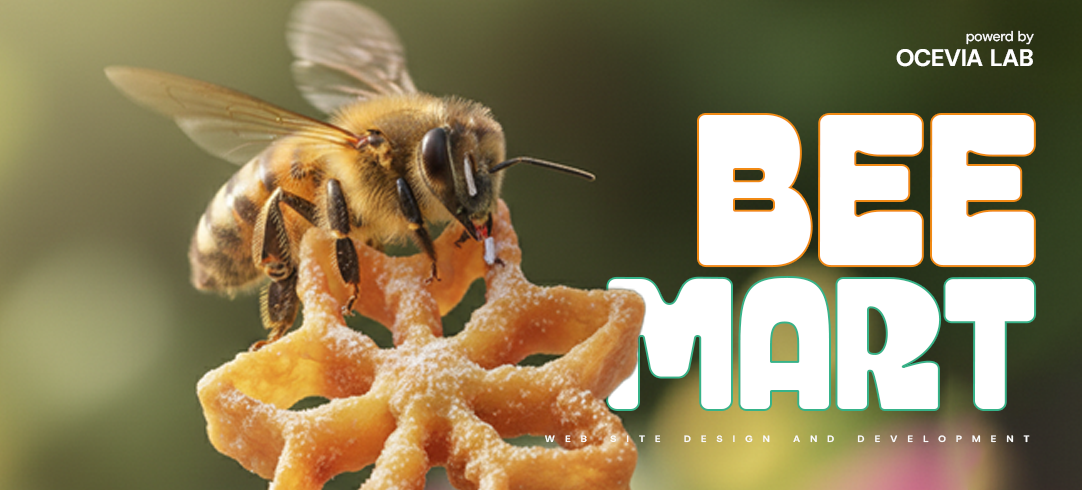
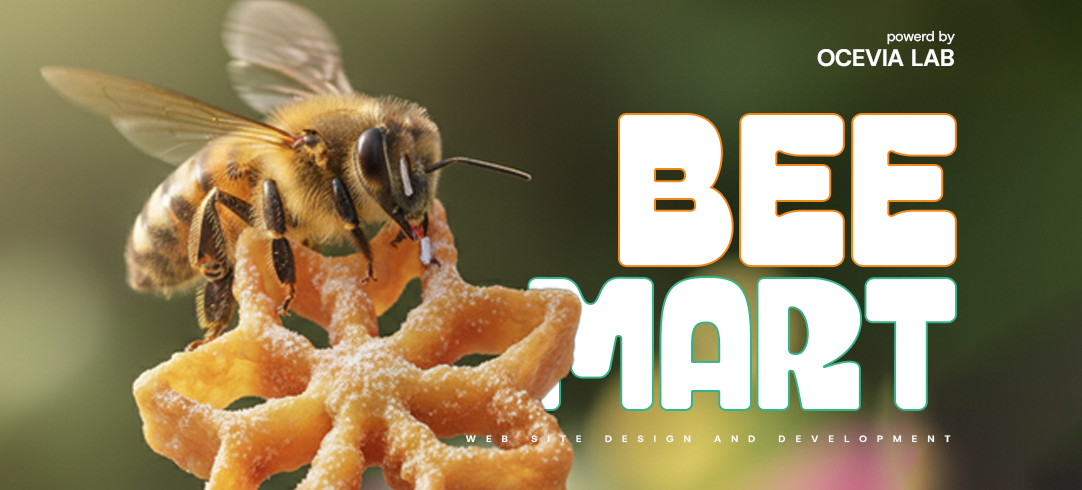
Bee Mart portfolio

diff --git a/index.html b/index.html
@@ -403,10 +403,12 @@
         <div class="cs-isotop_item cs-w66 mobile_apps">
           <a href="portfolio-details.html" class="cs-portfolio cs-style1 cs-type1">
             <div class="cs-portfolio_hover"></div>
-            <div class="cs-portfolio_bg cs-bg" data-src="assets/img/portfolio_15.jpeg"></div>
+            <div class="cs-portfolio_bg cs-bg d-block d-lg-none" data-src="assets/img/project5-mobile.png"></div>
+
+            <div class="cs-portfolio_bg cs-bg d-none d-lg-block" data-src="assets/img/project5-desktop.png"></div>
             <div class="cs-portfolio_info">
               <div class="cs-portfolio_info_bg cs-accent_bg"></div>
-              <h2 class="cs-portfolio_title">Colorful Art Work</h2>
+              <h2 class="cs-portfolio_title">Bee Mart</h2>
               <div class="cs-portfolio_subtitle">See Details</div>
             </div>
           </a>
